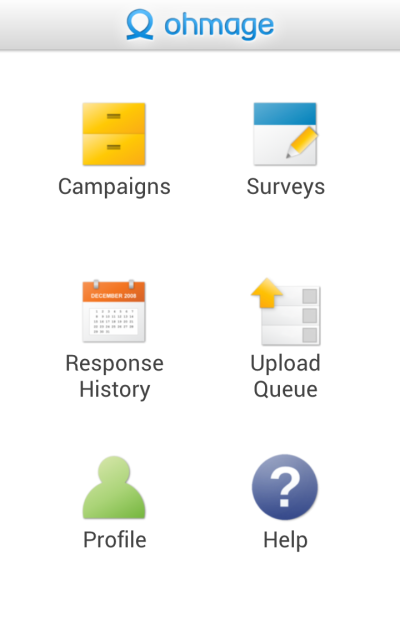
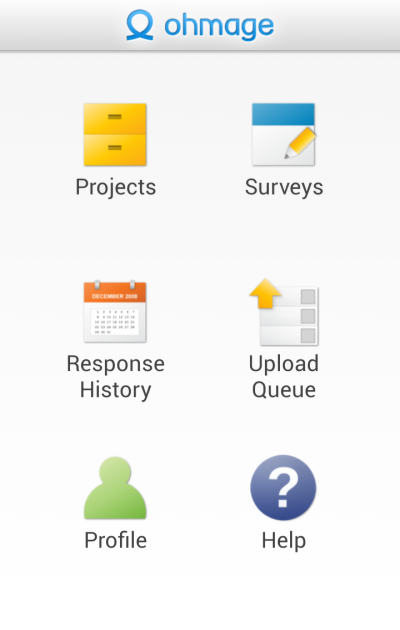
Mostly text changes (campaign -> project), some cosmetic alterations.

diff --git a/home/templates/ohmagehome/subviews/home.html b/home/templates/ohmagehome/subviews/home.html
@@ -3,6 +3,7 @@
 {% block style %}
 p { text-indent: 10px; }
 p.note { text-indent: 0; font-size: 12px; color: #555; }
+#maincol p.home_text { line-height: 180%; }
 {% endblock %}
 
 {% block content %}
@@ -10,15 +11,15 @@ p.note { text-indent: 0; font-size: 12px; color: #555; }
 
     <img id="home_preview" src="/static/ohmagehome/images/ohmage-preview.png" width="175" />
 
-    <p>
-    <b>ohmage</b> is an open-source participatory sensing technology platform. It supports expressive campaign authoring; mobile phone-based data capture through both inquiry-based surveys and automated data capture as well as temporally/spatially triggered reminders, data visualization and real-time feedback; privacy respecting data management; and extensible data exploration. All captured data are automatically timestamped, geocoded and uploaded for analysis and visualization.
+    <p class="home_text">
+    <b>ohmage</b> is an open-source participatory sensing technology platform. It supports expressive project authoring; mobile phone-based data capture through both inquiry-based surveys and automated data capture as well as temporally and/or spatially triggered reminders, data visualization and real-time feedback; privacy respecting data management; and extensible data exploration. All captured data are automatically timestamped, geocoded and uploaded for analysis and visualization.
     </p>
 
     <!--
     <p>This platform is used in pilot health studies (<a href="http://www.andwellness.org">www.andwellness.org</a>) and will be used as a pedagogical tool in LAUSD schools for learning data representation, collection and analysis (<a href="http://www.mobilizingcs.org">www.mobilizingcs.org</a>).</p>
     -->
 
-    <p style="clear: both;">
+    <p  class="home_text" id="software_table_desc">
     The <b>ohmage</b> app is currently available for Android (2.2+) and iOS devices. While the original ohmage app was developed for the Android platform, the ohmage team has worked closely with <a target="_blank" href="http://mwf.ucla.edu/">UCLA's Mobile Web Framework</a> group to create a lightweight version of the app that is compatible with a broad variety of devices, including iOS devices. All versions are listed for download below.
     </p>
 
@@ -67,10 +68,23 @@ p.note { text-indent: 0; font-size: 12px; color: #555; }
                 </a>
             </td>
         </tr>
+
+        <tr>
+            <td>
+                <img  class="applist_iconstub" src="{{ STATIC_URL }}ohmagehome/images/app_icons/mobility.png" />
+                <b>Mobility</b> client
+            </td>
+            <td>Android 2.2+</td>
+            <td>
+                <a class="store_link play" target="_blank" href="https://play.google.com/store/apps/details?id=org.ohmage.mobility">
+                    Play Store
+                </a>
+            </td>
+        </tr>
     </table>
 
     <p class="note">
-    <b style="color: #59997e;">*</b> the ohmage Android client is full-featured, supporting collection of continuous background data streams as well as self-report, whereas the MWF versions currently only support self-report.
+    <b style="color: #59997e;">*</b> the MWF versions currently only support self-report, whereas the ohmage Android client is full-featured, supporting collection of continuous background data streams as well as self-report
     </p>
 
     <p class="tooltip">

diff --git a/home/templates/ohmagehome/subviews/usage.html b/home/templates/ohmagehome/subviews/usage.html
@@ -188,7 +188,7 @@ $(document).ready(function() {
 
             <p>
                 <span class="provisional">
-                I am interested in software systems developed for mobile health. I want to add new features to ohmage, borrow code from this open-source repository, or just see how a particularly useful visualization has been implemented. I am comfortable with the Android framework on the phone, the LAMP stack, Java and mySQL for the server, or XXXX for the visualizations (Josh, please fix!).
+                I am interested in software systems developed for mobile health. I want to add new features to ohmage, borrow code from this open-source repository, or just see how a particularly useful visualization has been implemented. I am comfortable with the Android framework on the phone, the LAMP stack, Java, and MySQL for the server.
                 </span>
             </p>
 
@@ -234,7 +234,7 @@ $(document).ready(function() {
             <p class="tooltip" style="width: 75%;">
                 <img src="{{ STATIC_URL }}ohmagehome/icons/small/script.png" class="icon" >
                 <b>TUTORIAL:</b>
-                If you'd like a guided tutorial on how to author a campaign and view data collected by research subjects, try out the <a target="_blank" href="http://demo.ohmage.org/flows/authoring/">ohmage authoring tutorial</a>
+                If you'd like a guided tutorial on how to author a project and view data collected by research subjects, try out the <a target="_blank" href="http://demo.ohmage.org/flows/authoring/">ohmage authoring tutorial</a>
             </p>
 
             <p class="tooltip" style="width: 75%;">

diff --git a/home/templates/ohmagehome/subviews/usage-roles/researcher.html b/home/templates/ohmagehome/subviews/usage-roles/researcher.html
@@ -21,7 +21,7 @@
 <p class="tooltip" style="width: 75%;">
     <img src="{{ STATIC_URL }}ohmagehome/icons/small/script.png" class="icon" >
     <b>TUTORIAL:</b>
-    If you'd like a guided tutorial on how to author a campaign and view data collected by research subjects, try out the <a target="_blank" href="http://demo.ohmage.org/flows/authoring/">ohmage authoring tutorial</a>
+    If you'd like a guided tutorial on how to author a project and view data collected by research subjects, try out the <a target="_blank" href="http://demo.ohmage.org/flows/authoring/">ohmage authoring tutorial</a>
 </p>
 
 <p class="tooltip" style="width: 75%;">

diff --git a/home/templates/ohmagehome/base.html b/home/templates/ohmagehome/base.html
@@ -9,7 +9,7 @@
 
         <link href='http://fonts.googleapis.com/css?family=Open+Sans:400,600' rel='stylesheet' type='text/css'>
 
-        <link rel="stylesheet" href="{{ STATIC_URL }}ohmagehome/css/{% if css %}{{  css }}{% else %}home.css{% endif %}" type="text/css" />
+        <link rel="stylesheet" href="{{ STATIC_URL }}ohmagehome/css/home.css" type="text/css" />
         <link rel="shortcut icon" href="{{ STATIC_URL }}images/favicon-gray.ico" />
 
         <script src="{{ STATIC_URL }}js/jquery-1.7.1.min.js" type="text/javascript" language="Javascript"></script>

diff --git a/home/templates/ohmagehome/subviews/papers.html b/home/templates/ohmagehome/subviews/papers.html
@@ -71,7 +71,7 @@
 {% block content %}
     <div class="subheader">what papers have involved ohmage?</div>
 
-    <p>Below is a list of papers that reference ohmage or regard ohmage.</p>
+    <p>Below is a list of papers which reference or regard ohmage.</p>
 
     <ul>
         {% for paper in papers %}
